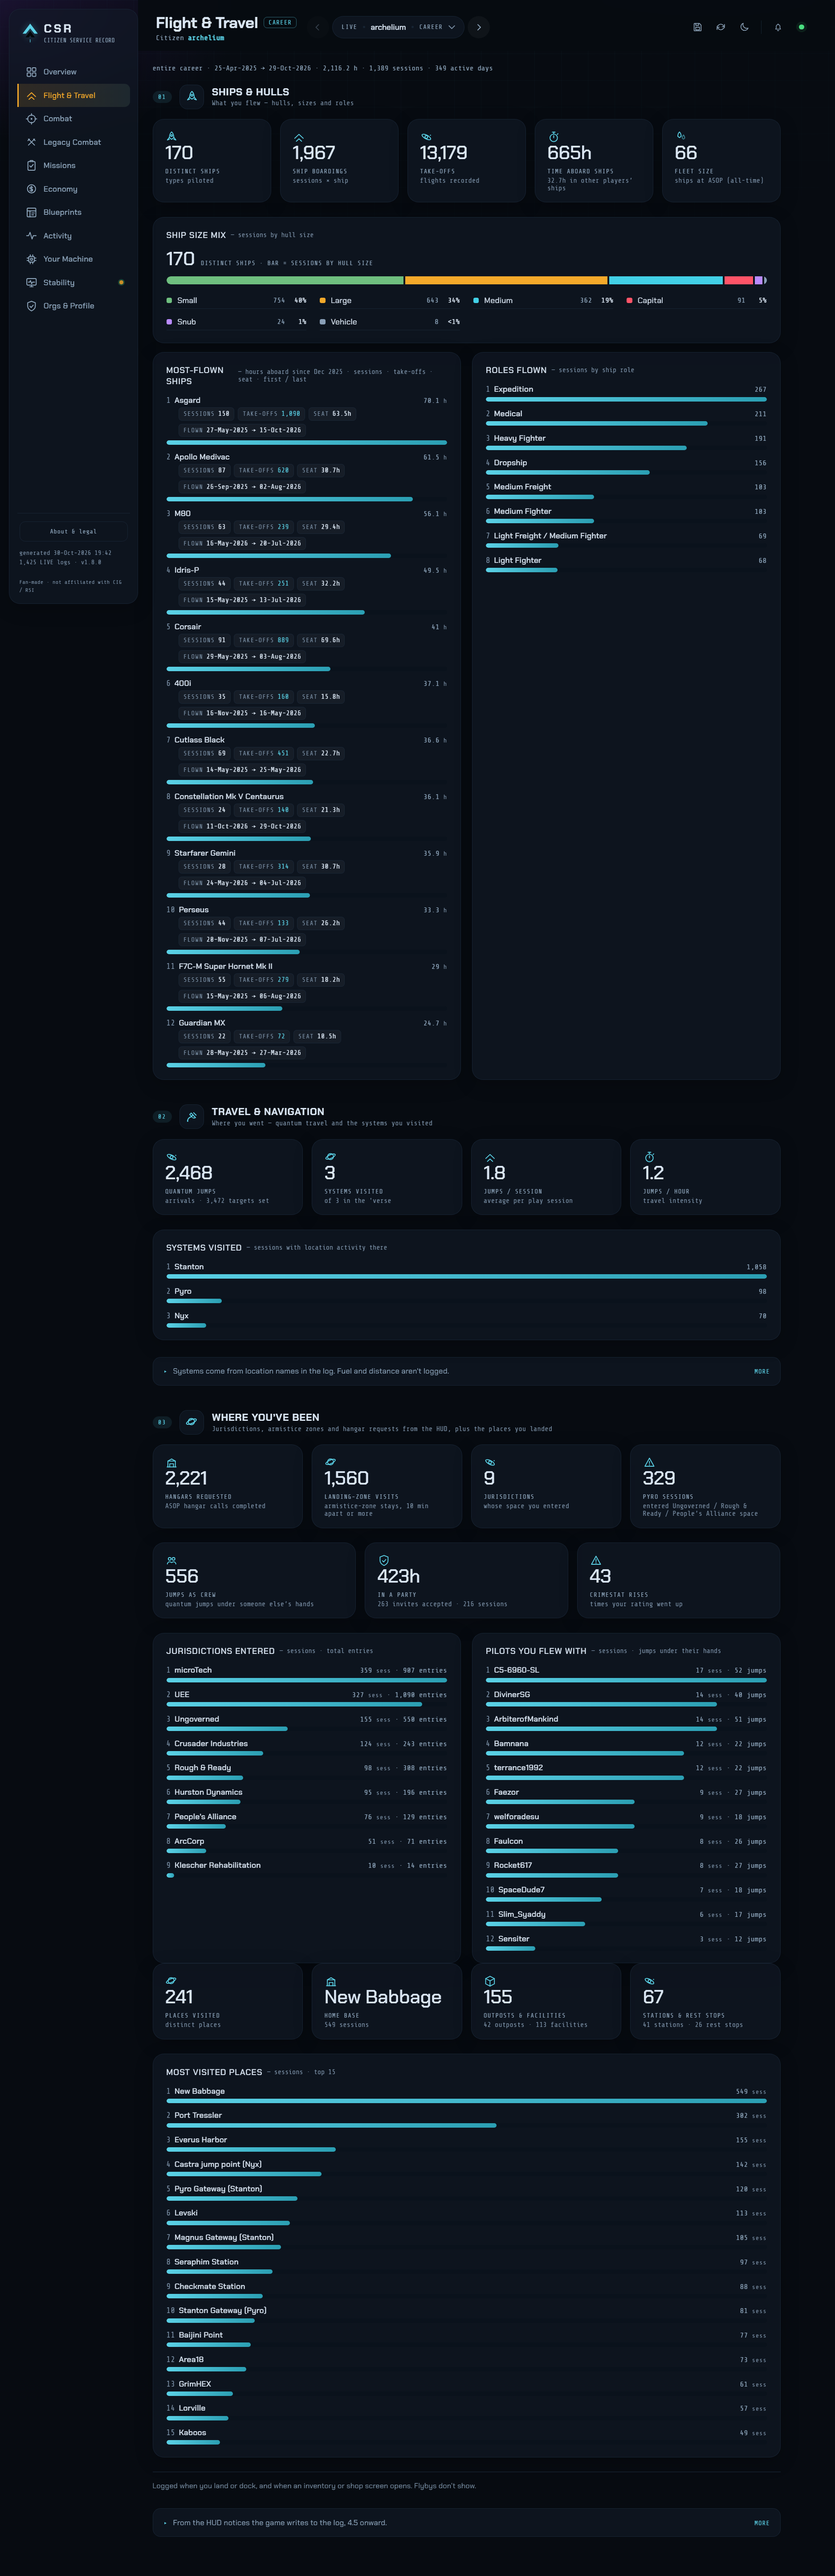
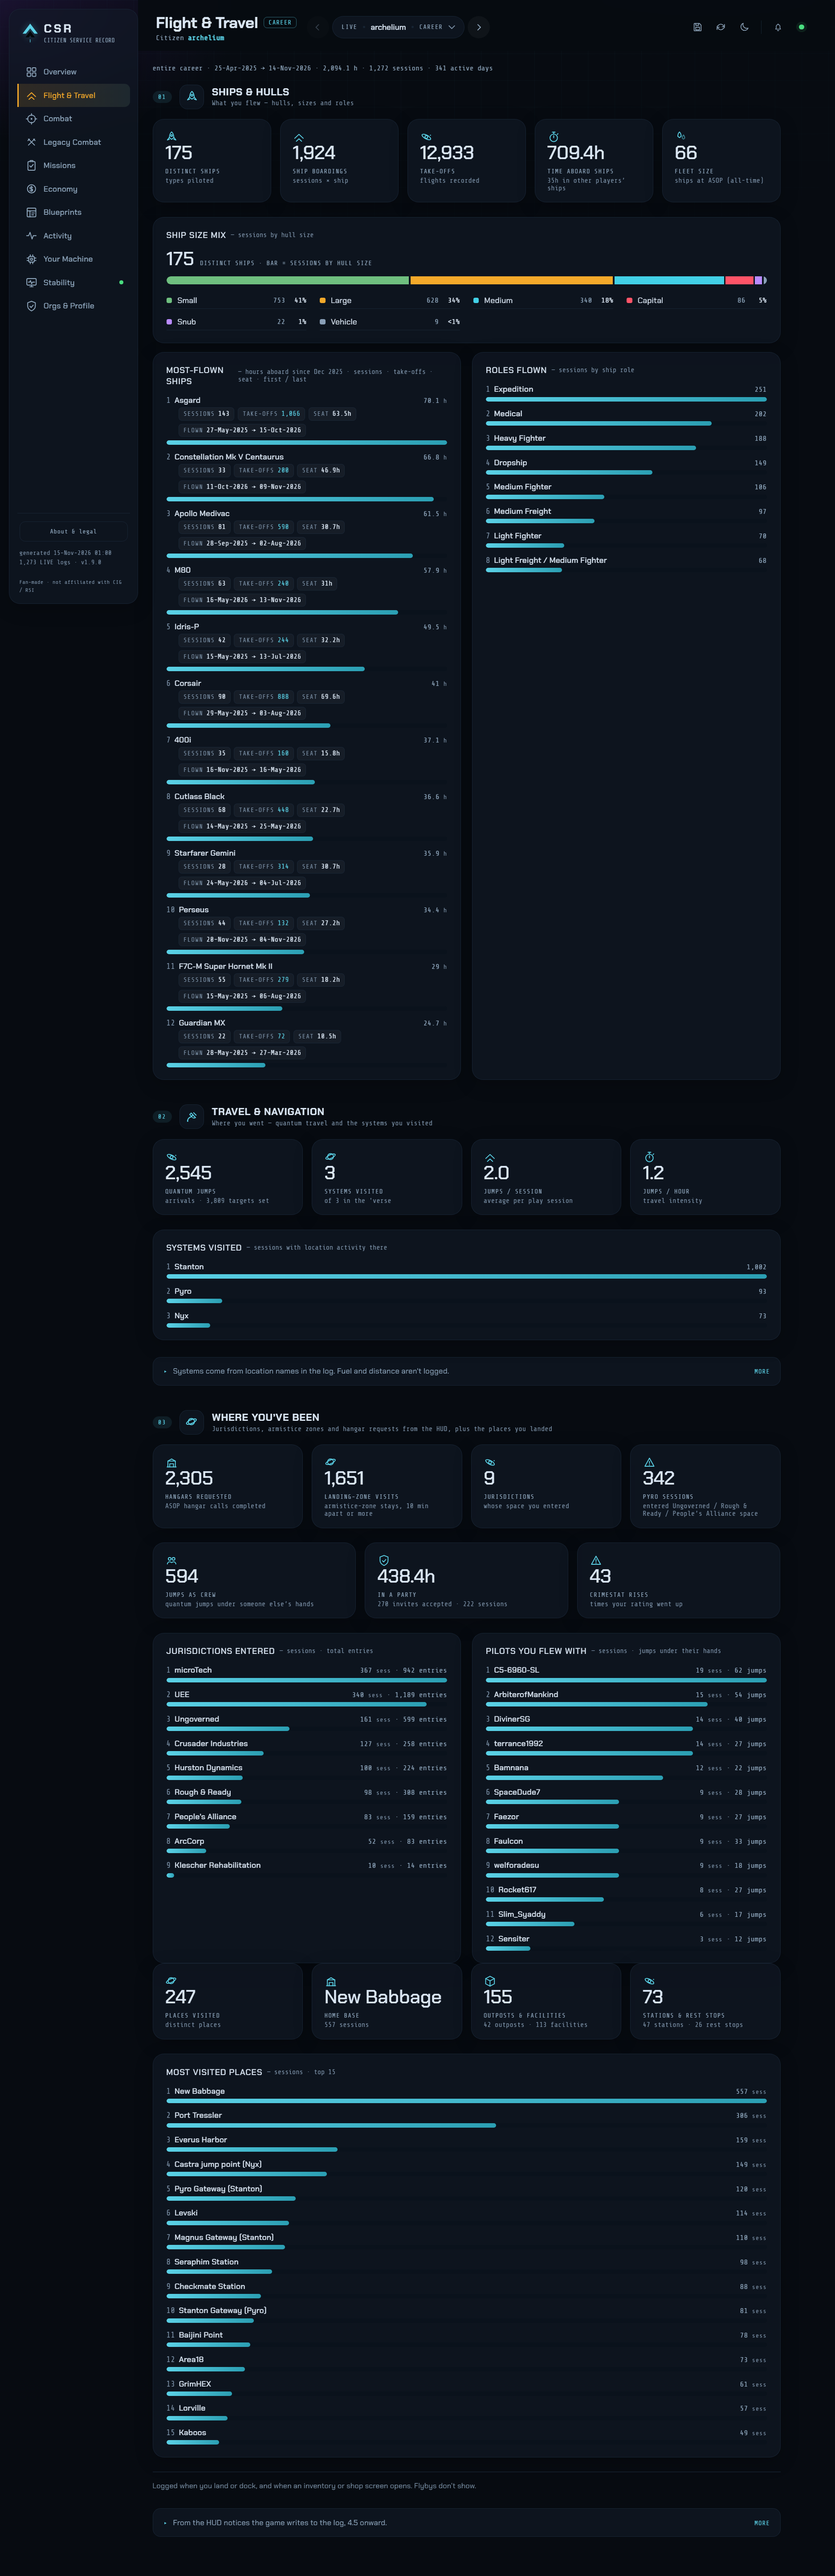
docs: README and screenshots for 1.9.0
Retake all five screenshots on 1.9.0. Add ship kills and the home inventory
check to the feature list and the Stability caption. Patch coverage now
4.10.3, upgrade table on 1.9.0, ship kills out of the can't-show list.

Changed region(s): [[0.5877, 0.654, 0.6496, 0.7163], [0.6187, 0.1869, 0.6805, 0.218], [0.2475, 0.6851, 0.2784, 0.7163]]

diff --git a/README.md b/README.md
@@ -7,7 +7,7 @@ broken down by patch and by account.
 
 Pure Python **standard library** (no pip installs to run from source).
 
-**Patch coverage — tested on 4.1 → 4.10** (October 2026). CSR reads the version out of each
+**Patch coverage — tested on 4.1 → 4.10.3** (November 2026). CSR reads the version out of each
 log rather than working from a fixed list, so **older patches will often work too**, and
 newer ones should. Neither is tested: Star Citizen changes its log format between
 builds, so expect gaps or misparsed figures outside that range — and please
@@ -36,10 +36,12 @@ bugs. Each crash row says what you were doing, where, and how long you'd been in
 Repeats of the same bug fold into one *crash loop* row. Also **returns to the main
 menu mid-session** — the "it booted me for no reason" moment, which Star Citizen records
 as *you* asking to disconnect, and which nothing else counts. Since the 2026 builds a
-deliberate *Exit to menu* leaves the same trace, so CSR counts both and says so. And the
-servers you joined: region, distinct servers, and hops between them.
+deliberate *Exit to menu* leaves the same trace, so CSR counts both and says so. Then the
+servers you joined: region, distinct servers, and hops between them. And your **home
+inventory**: how full it is against its 5,000 SCU cap, sorts that fail, and inventory
+requests that grow past what the game will send.
 
-![Stability — crash analysis and returns to the main menu](docs/img/stability.png)
+![Stability — crash analysis, returns to the main menu and the home inventory check](docs/img/stability.png)
 
 ### Your Machine
 
@@ -108,12 +110,12 @@ CSR is portable, so updating is just **replace the exe**:
 keeps sessions Star Citizen has since deleted from your log folder. If you want a
 belt-and-braces backup first, open CSR and use **💾 Backup & transfer → Export**.
 
-What happens on your first run of v1.8.0, depending on where you're coming from:
+What happens on your first run of v1.9.0, depending on where you're coming from:
 
 | Coming from | What to expect |
 |---|---|
 | **v1.0.0** | v1.0.0 kept no archive, so your history is rebuilt from whatever logs you still have. If your saved folder was `…\StarCitizen\LIVE`, CSR now finds `PTU` and `TECH-PREVIEW` beside it on its own — **no need to re-pick a folder** — and a **Channel** dropdown appears if it finds any. |
-| **v1.1.0 – v1.7.0** | Your archive carries over untouched. |
+| **v1.1.0 – v1.8.0** | Your archive carries over untouched. |
 | **any** | The first scan re-reads **every** log (a minute or so). This is deliberate: each release fixes parsing bugs or extracts new data, so nothing older is trusted. It happens once — after that CSR starts, and refreshes, in about a second. |
 
 Coming from **v1.2.0** specifically, the first run also *moves* some existing numbers,
@@ -160,7 +162,9 @@ Patch* to filter to that patch (and *↩ View career* to reset).
 - **Flight & Travel** — where you've been (jurisdictions, landing-zone visits, hangars requested, jumps as crew and the pilots you flew under, time in a party, CrimeStat rises — from the HUD notices, 4.5+), *places visited* (every station, city, rest stop and outpost you landed or docked at, your home base, the 15 you visit most), *ships & hulls* (distinct ships, boardings, take-offs, time aboard ships, fleet
   size, most-flown by time aboard with seat time and first/last flown dates, hull-size mix, roles) and
   *travel & navigation* (quantum jumps, jumps per session/hour, systems visited)
-- **Combat** — *ship combat* (how you lost ships), *FPS combat* (loadout ranked by
+- **Combat** — *ship combat* (how you lost ships, and from 4.10.3 the ships you destroyed:
+  kills, crippled, other players' ships, kills per 10 hours, the ships you destroyed most,
+  and who destroyed yours), *FPS combat* (loadout ranked by
   how often each weapon was drawn, plus reloads and carry), *injuries & treatment*
   (what hurt you, med-bed surgeries, hospital vs ship medbay, time out of air and how
   often with no helmet on), *gear lost on death*
@@ -197,6 +201,9 @@ Patch* to filter to that patch (and *↩ View career* to reset).
   - How your sessions **ended**, per patch
   - **Servers** — your main region, joins by region, distinct servers joined, and server
     hops (a different server in the same session) per patch
+  - **Home inventory** — how full your home inventory is (used SCU against its cap, by
+    month), failed sorts, the largest inventory request against the 1 MB the game will
+    send, operations dropped over that limit, and reward items announced
 - **Live crash alerts** — while CSR is running it watches your log and pops an alert on
   the dashboard within seconds of a crash, a lost player or a genuine disconnect, saying what broke and
   whether it was your PC or CIG's servers. Routine disconnect chatter is filtered out.
@@ -236,9 +243,10 @@ Gallant**); ship names/art come from the official **RSI Ship Matrix**, item name
 from the **SC-Wiki** item data. Artwork and fonts are embedded, so the page is a
 single self-contained file. Internet is used only on the run that builds the page.
 
-**What CSR can't show** — kills, K/D, accuracy, damage, and your aUEC *balance /
+**What CSR can't show** — on-foot kills, K/D, accuracy, damage, and your aUEC *balance /
 earnings*: Star Citizen stopped writing those to the client log in the 2026 builds
-(combat + wallet went server-side). aUEC **spend** *is* logged (per shop purchase),
+(combat + wallet went server-side). Ship kills came back in 4.10.3 and are counted from
+there. aUEC **spend** *is* logged (per shop purchase),
 so the Economy tab is real. "Favorite guns" is by **times drawn into your hand**,
 not shots fired. Frame rate **is** recorded, but as a **whole-session average**
 written when a level unloads — not a live counter, so a session that ran at 90 FPS in
